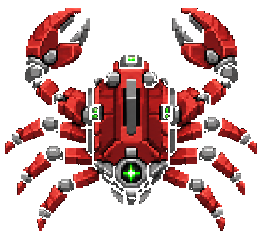
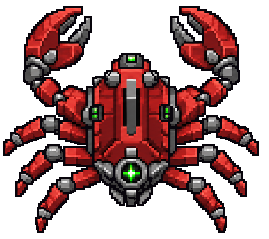
borde 2px  cangrejo

diff --git a/Personajes.hpp b/Personajes.hpp
@@ -308,7 +308,7 @@ private:
 
     float velocidadHorizontal_ = 2.4f;
     float velocidadVertical_ = 1.5f;
-    float escala_ = 0.39f;
+    float escala_ = 0.585f;
     int frame_ = 0;
     bool activo_ = false;
     int danio_ = 1;
